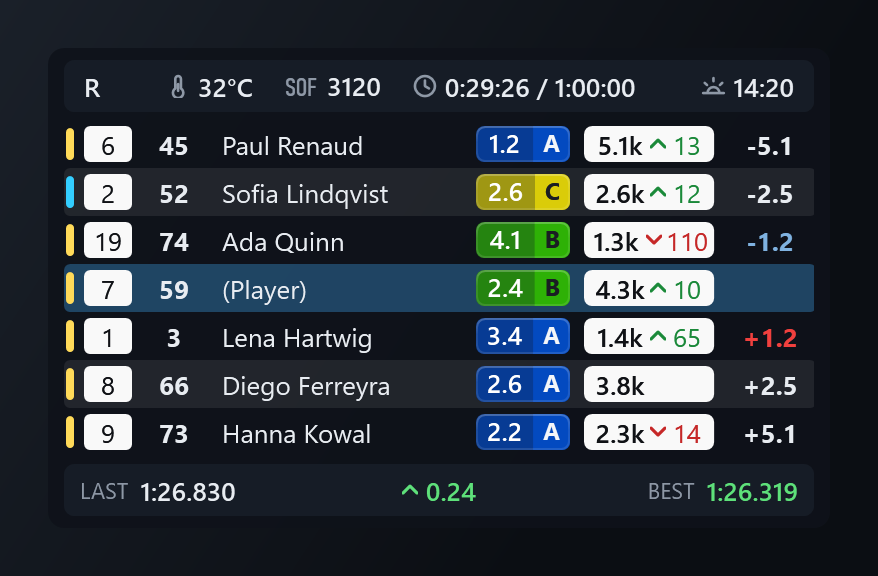
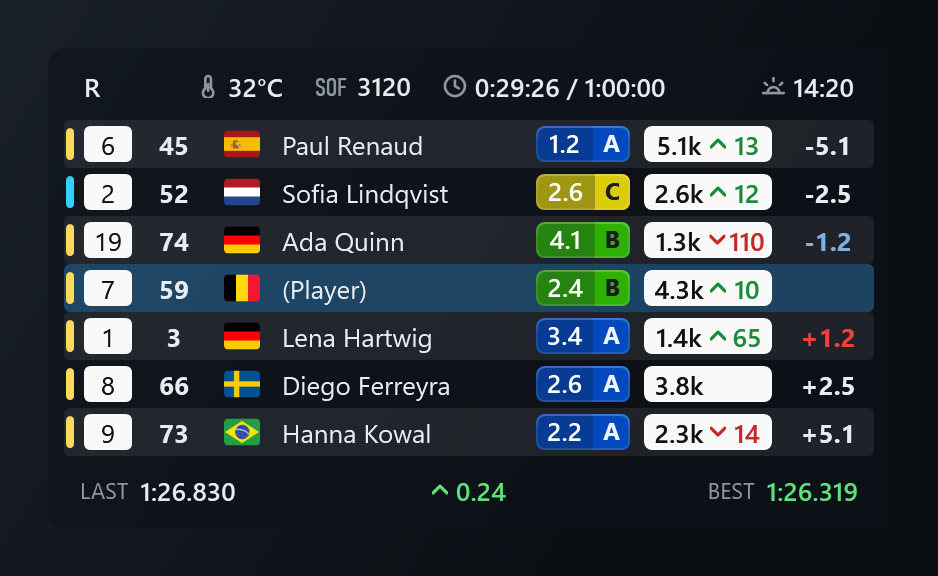
README: flags and main settings, new screenshots

diff --git a/README.md b/README.md
@@ -45,10 +45,11 @@ Untested so far: ERS mode and the safety car delta (F1 games), the update instal
 
 *Battle Bar: you in the middle, the cars around you with gaps, trend arrows and a battle frame (invented data)*
 
-- **Standings:** position, class colour, places gained, car number, name, car make, licence and iRating with an estimated change (iRacing), gap and interval, last lap, tyres, pit stops and the live delta to the cars around you. Header with session, track, time left, SOF and clock; footer with your last, best and delta
+- **Standings:** position, class colour, places gained, car number, country flag (iRacing), name, car make, licence and iRating with an estimated change (iRacing), gap and interval, last lap, tyres, pit stops and the live delta to the cars around you. Header with session, track, time left, SOF and clock; footer with your last, best and delta
 - **Relatives:** the cars around you on the track with the gap to you, in the same look as the standings. How many cars you see in front and behind is up to you
-- **Battle Bar:** you in the middle with the cars around you, or a ticker with the field like on TV (fixed or running), with gaps, trend arrows and a battle frame
+- **Battle Bar:** you in the middle with the cars around you, or a ticker with the field like on TV (fixed or running), with gaps, trend arrows, country flags and a battle frame
 - Every column can be switched and styled: number styles, name formats, decimals, backgrounds, fonts (Inter and Saira SemiCondensed built in), rounded or square corners, rows and size
+- **Main settings** on the General page: update rate, background opacity of the rows and of the header and footer, font, weight and corners for all overlays at once. Each overlay page follows them ("Same as in General") or has its own values
 - Classes on their own, grouped or mixed; animated position changes
 - **Edit mode** to drag and size the overlays, also on a second monitor. They show only while the game is in front, and hide in replays and the garage unless you switch that on
 - Other games (Assetto Corsa, Automobilista, rFactor and more) use SimHub's data. Columns a game does not provide are hidden
@@ -113,3 +114,5 @@ Shiftline is free and open source under the GNU General Public License v3. You c
 GNU General Public License v3 (GPL-3.0), see `LICENSE.txt`.
 
 The overlays include the fonts Inter and Saira SemiCondensed under the SIL Open Font License 1.1, see `plugin/Shiftline/Assets/Fonts`.
+
+The country flags are from the [flag-icons](https://github.com/lipis/flag-icons) project (MIT licence), see `plugin/Shiftline/Assets/Flags/LICENSE-flag-icons.txt`.
